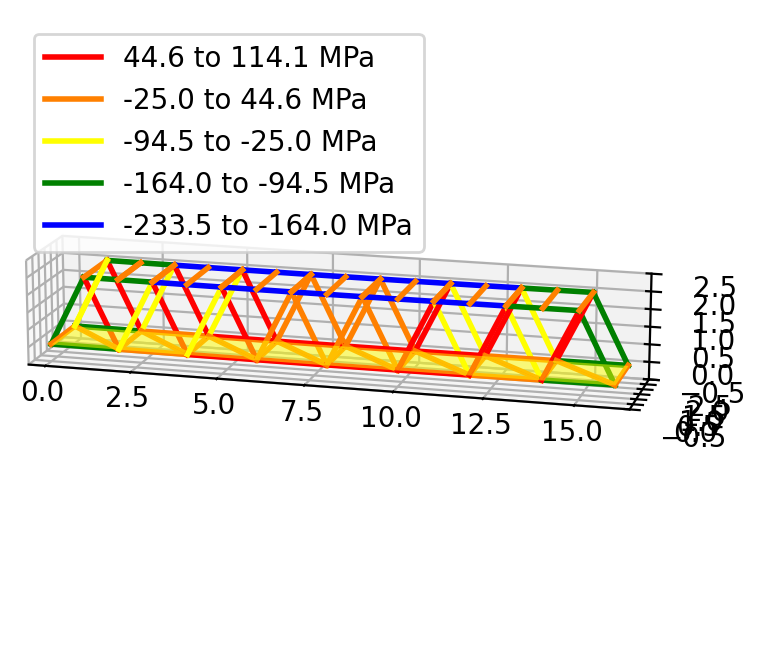
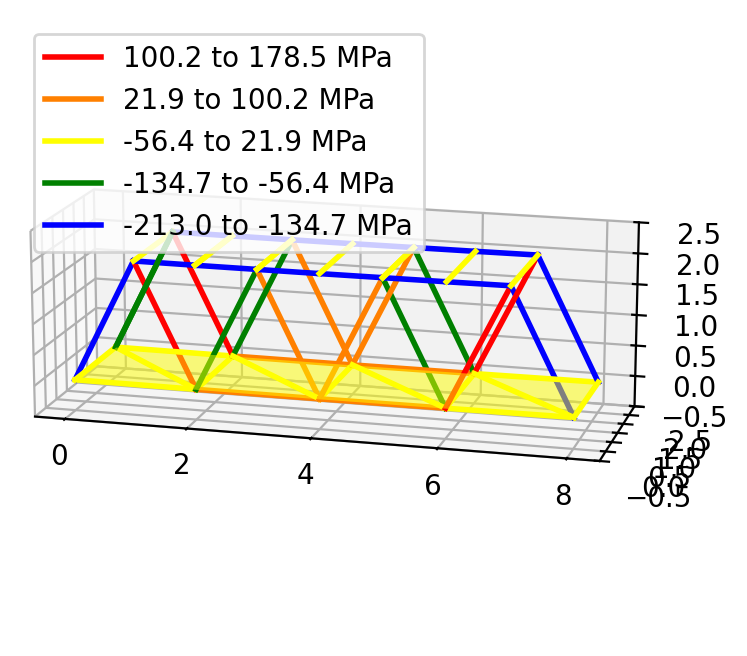
update

diff --git a/Rolling_Bridge_Load_To_Fail.py b/Rolling_Bridge_Load_To_Fail.py
@@ -76,7 +76,7 @@ def rolling_fail(N):
     nr.assembly = assembly
     node_num = node.coordinates_mat.shape[0]
     nr.supp = np.column_stack([np.arange(node_num), np.zeros(node_num), np.zeros(node_num), np.zeros(node_num)])
-    for support_node in [1, 4, 45, 47]:
+    for support_node in [1, 4, N*6-3, N*6-1]:
         nr.supp[support_node - 1, 1:4] = 1
 
     force = 20000.0
